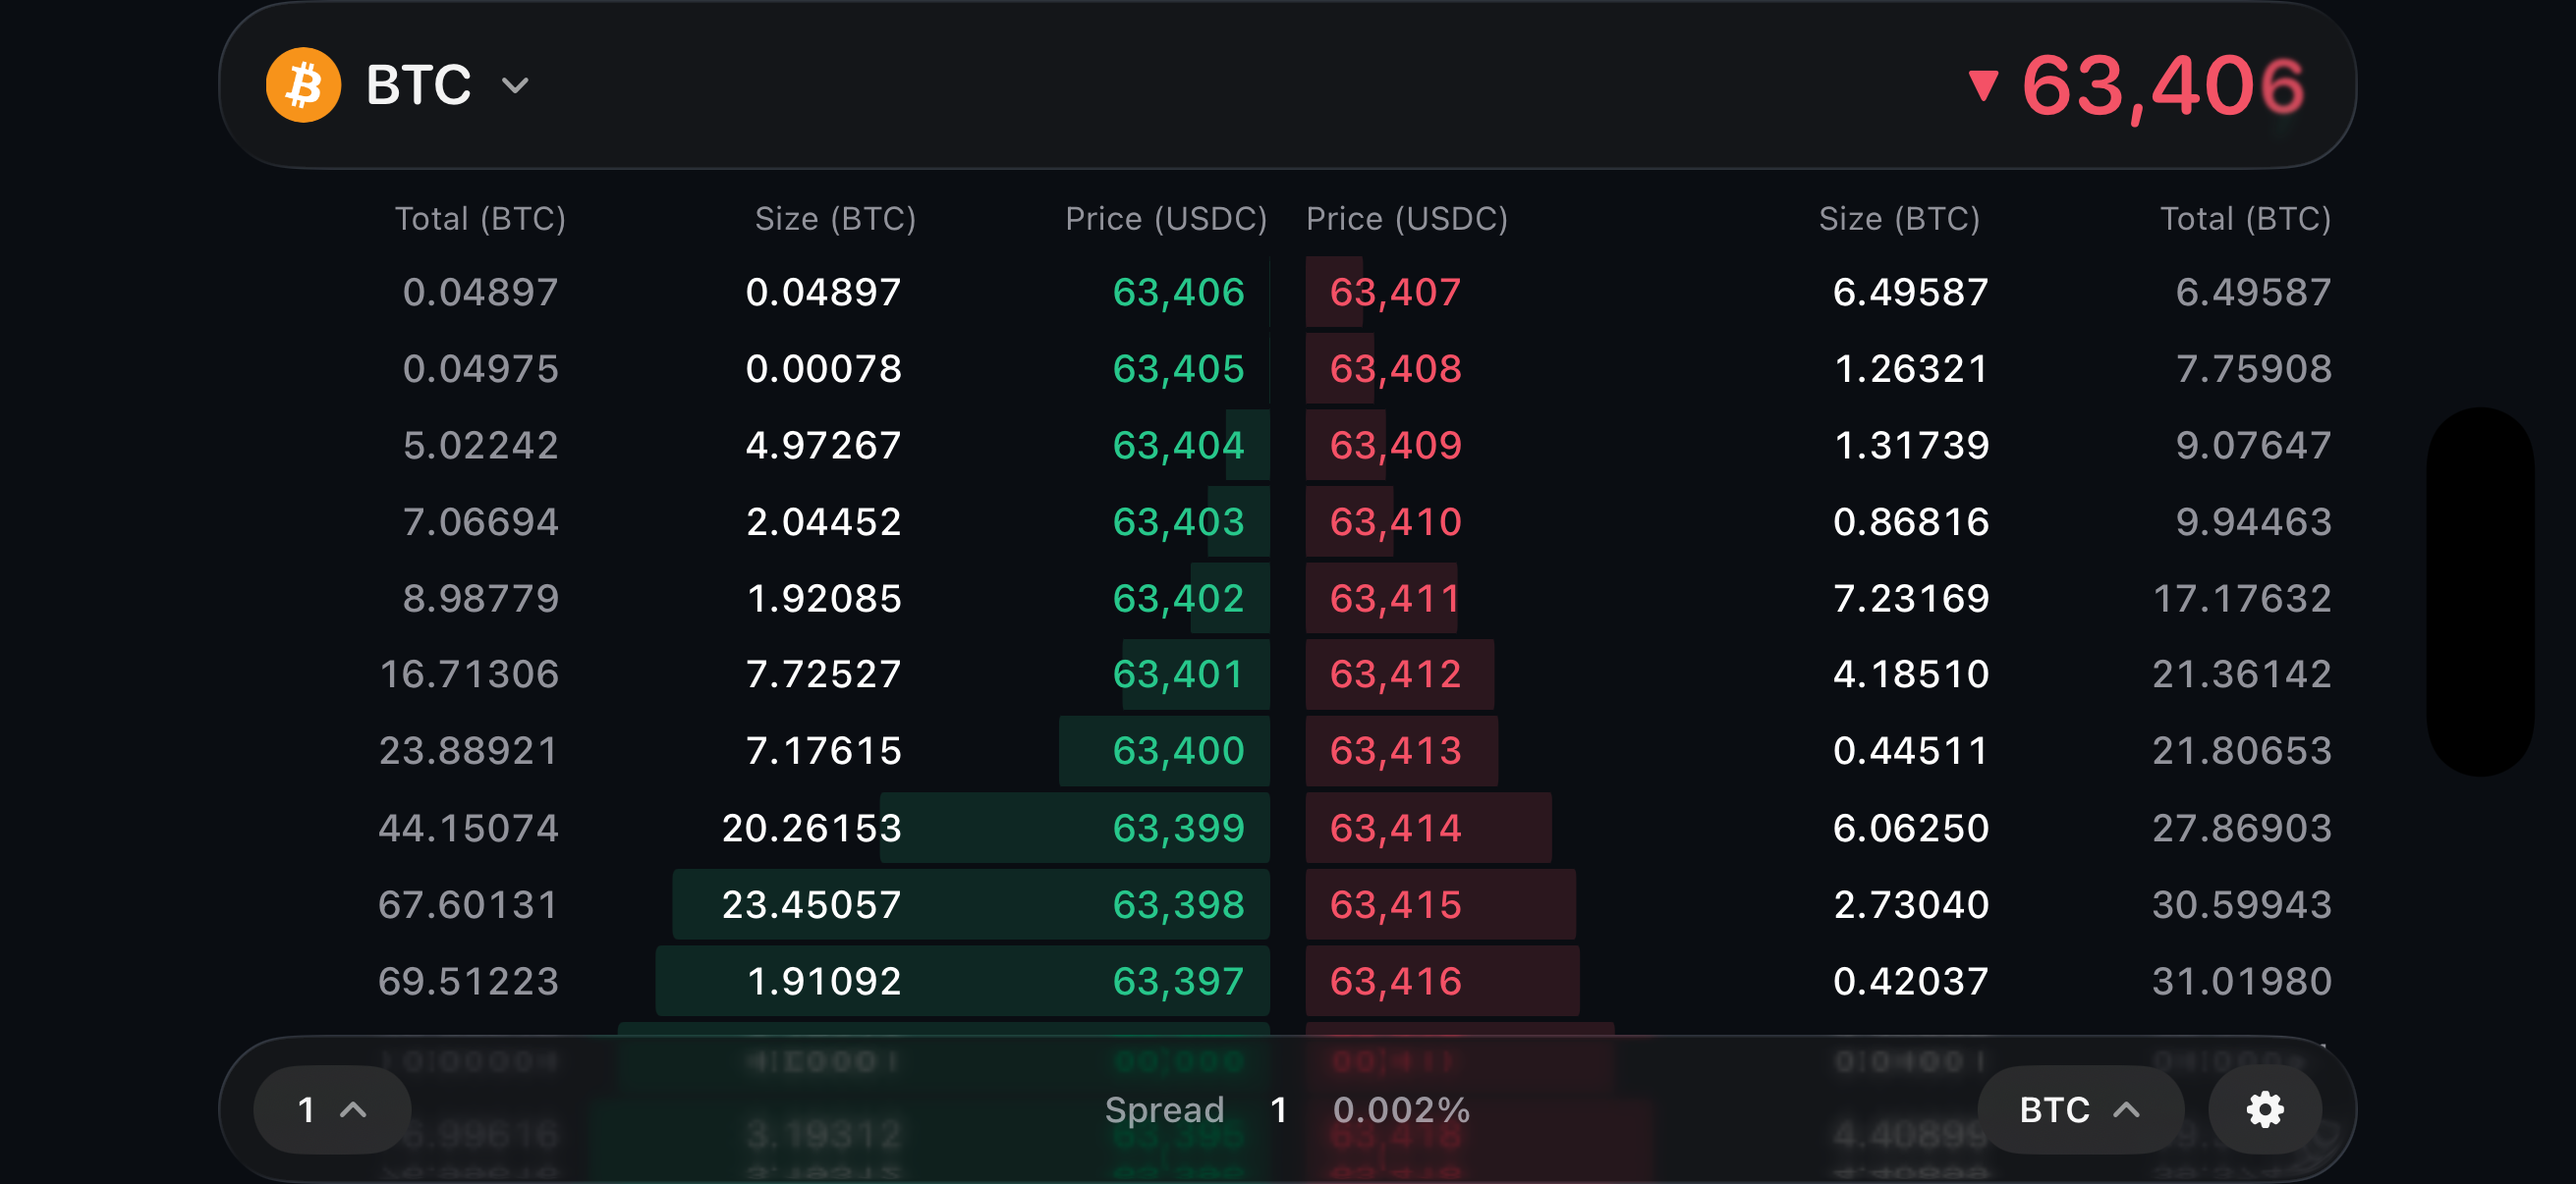
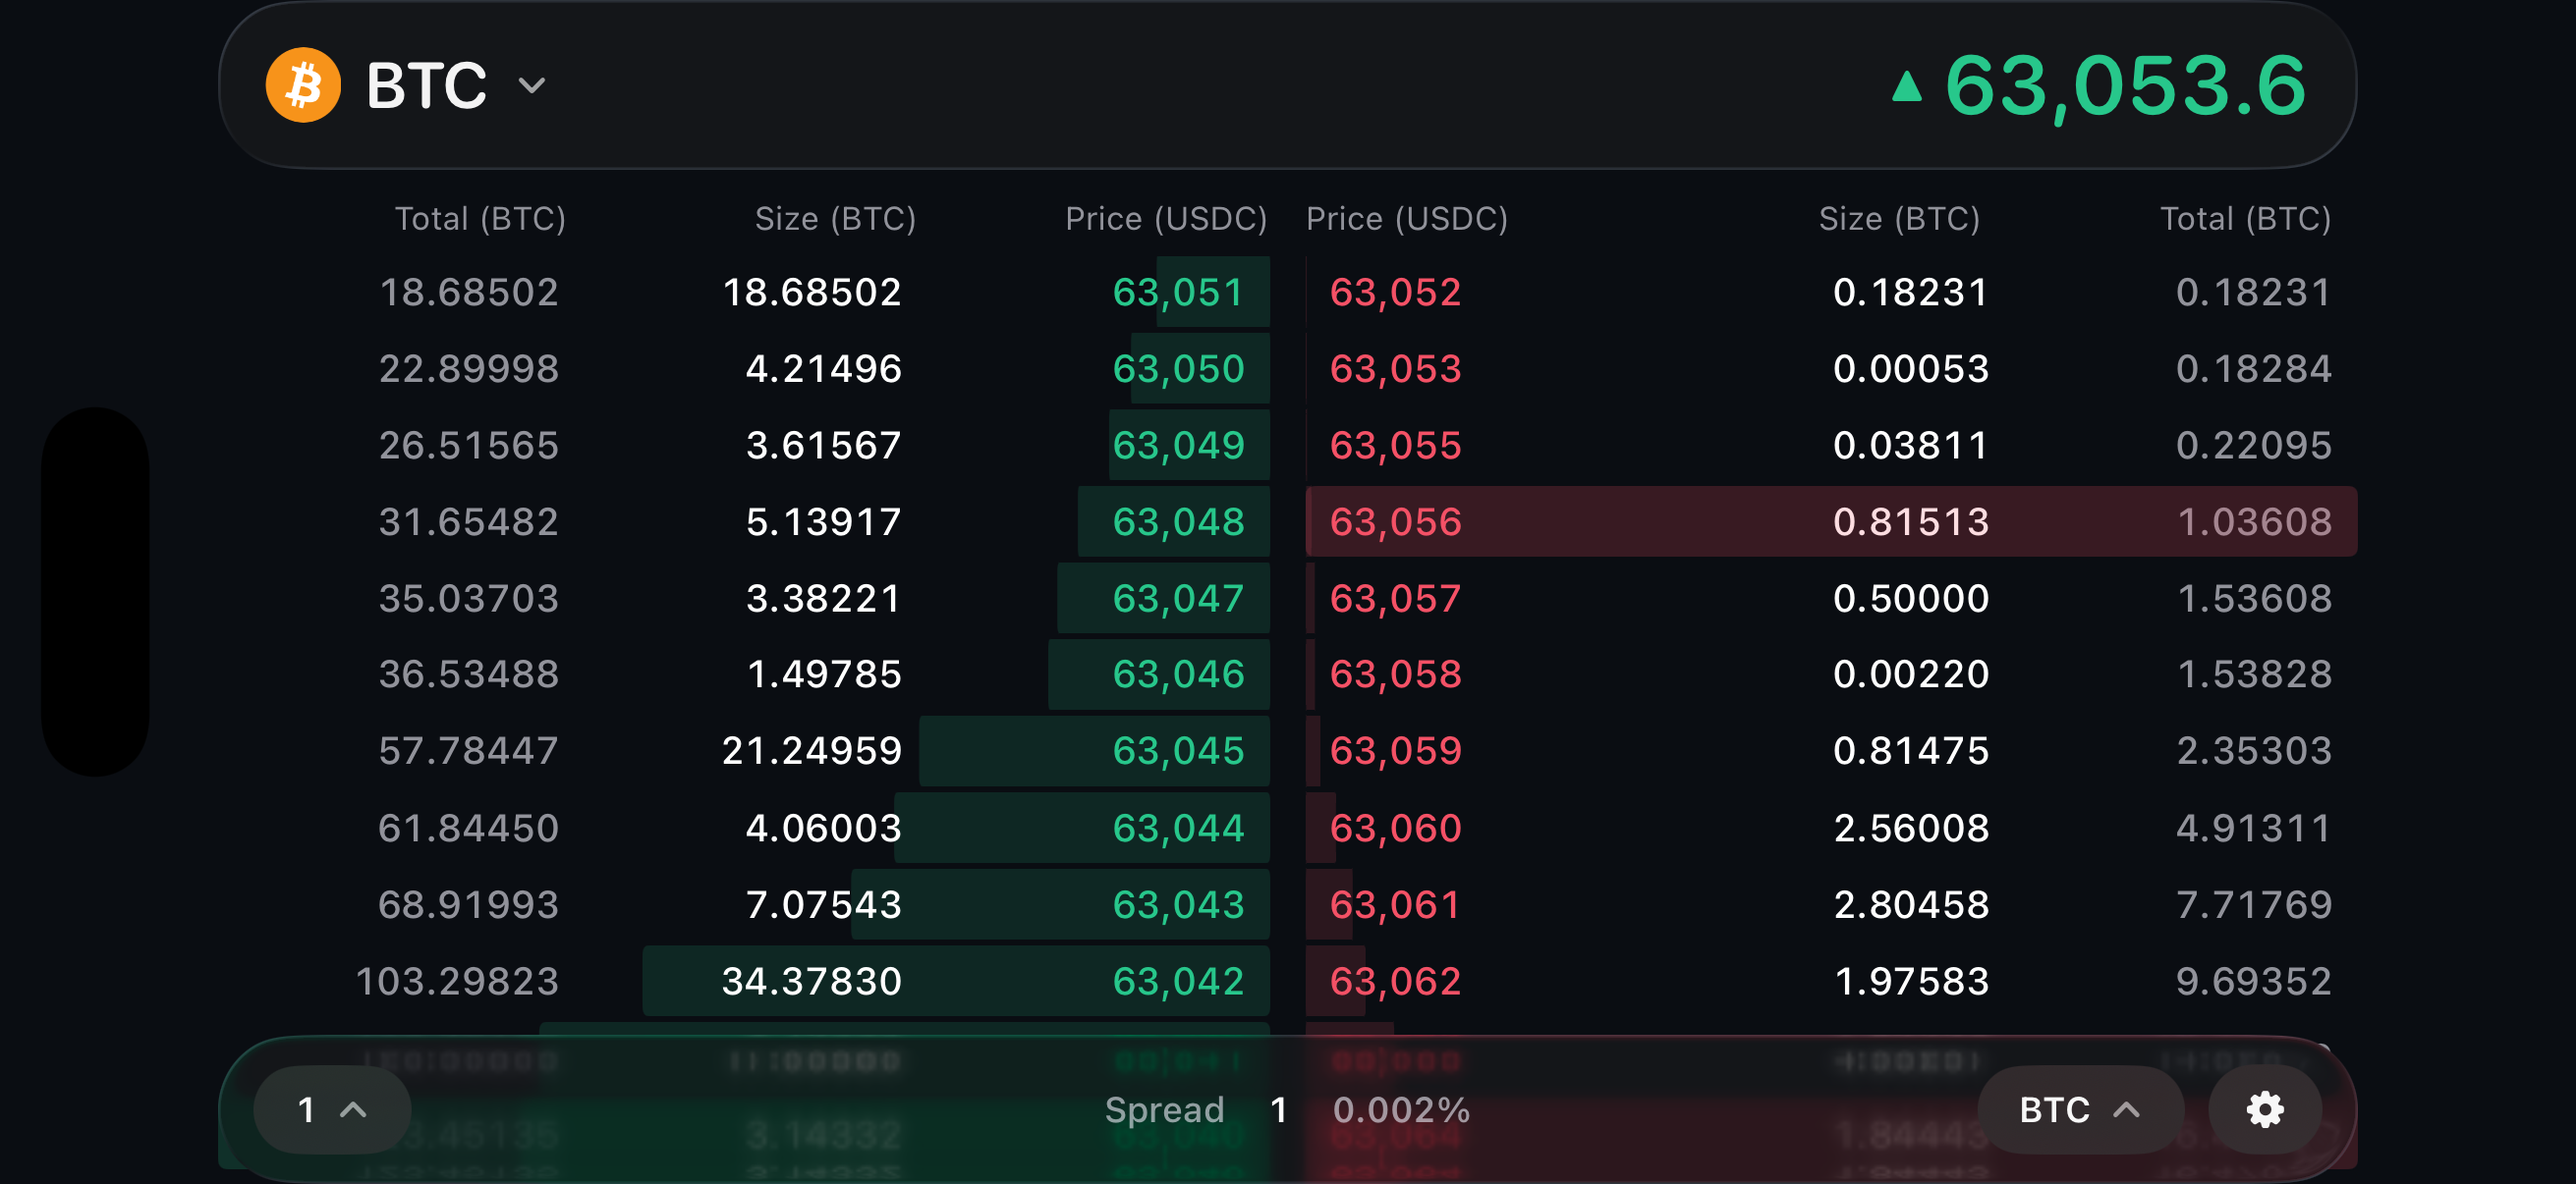
Restructure the README and refresh the screenshots

diff --git a/README.md b/README.md
@@ -1,7 +1,7 @@
 # HLOrderbook
 
-A native iOS orderbook widget streaming the live L2 book from Hyperliquid's
-websocket feed, built with Swift/SwiftUI only — no third-party dependencies.
+A native iOS order book that streams live data from Hyperliquid's websocket.
+Written in Swift and SwiftUI only, with no third-party libraries.
 
 <p>
   <img src="docs/screenshot.png" width="300" alt="HLOrderbook — live BTC book" />
@@ -15,134 +15,135 @@ websocket feed, built with Swift/SwiftUI only — no third-party dependencies.
   Type</em>
 </p>
 
-## Run
-
-Open `HLOrderbook.xcodeproj` in Xcode 16+ and run the `HLOrderbook` scheme on
-any iOS 17+ simulator or device. There is nothing to configure — the app
-connects straight to `wss://api.hyperliquid.xyz/ws`. The glass chrome uses
-iOS 26's Liquid Glass where available and falls back to a blurred material on
-older systems.
-
 ## Features
 
-- **Live L2 book** — subscribes to the `l2Book` channel; asks above, bids
-  below, with the spread pinned between them. The list scrolls natively
-  beneath the floating glass header and toolbar, anchored on the spread so
-  deeper levels are a swipe away. Nothing renders until the first snapshot
-  lands — just a spinner standing in for the price it's waiting on.
-- **Unfolding** — when a book arrives the rows fan out from the spread,
-  nearest first, fading in as they travel; switching market folds the old
-  book back the other way, the outermost rows leaving first, so it gathers
-  into the spread instead of stalling at its edges. Pure `offset` and
-  `opacity` — no layout pass, and the row identities never change.
-- **Two-column landscape** — past 600 pt of width the book reflows into bids
-  and asks side by side, prices meeting in the middle and depth bars growing
-  outward: twice the visible levels where the screen allows it. The trigger
-  is width, not orientation, so iPads get it in both orientations. The spread
-  moves to the centre of the toolbar, since the side-by-side book has no
-  spread row.
-- **Symbol selection** — BTC / ETH via a searchable market-picker sheet; the
-  pattern scales past two assets (another market is one enum case away).
-  Switching re-subscribes on the live socket (no reconnect) and re-centers
-  the book; the choice is remembered, so the app reopens on the market last
-  looked at. Coin logos are bundled from the CC0
-  [cryptocurrency-icons](https://github.com/spothq/cryptocurrency-icons) set.
-- **Price grouping (`nSigFigs` / `mantissa`)** — a native menu that offers
-  real tick sizes (1 / 2 / 5 / 10 / 100 / 1,000 for BTC) rather than raw
-  significant figures, and shows the current one unlabelled, as trading UIs
-  do. Steps are derived from the current price magnitude and mapped back to
-  the `nSigFigs` (and `mantissa`, for the 2× and 5× steps) the feed expects,
-  applied by re-subscribing.
-- **True spread** — the spread readout always shows the real market spread
-  from the full-precision `bbo` stream, matching Hyperliquid: grouping is a
-  display convenience and shouldn't inflate the apparent cost of crossing
-  the book. Updates are sampled at most every 500 ms so the number doesn't
-  strobe through re-quoting transients during fast markets.
-- **Size units** — a toolbar menu shows sizes and totals either in the coin
-  (BTC/ETH) or in USDC notional; switching re-renders the stored snapshot
-  without touching the subscription.
-- **Header price** — the mark price comes from the `activeAssetCtx` channel,
-  so it stays exact regardless of how coarsely the book is grouped (a mid
-  derived from $1,000 buckets would be off by hundreds). It ticks with a
-  numeric text transition and colors by direction.
-- **Level inspector** — press and hold a row to open a native popover with
-  what it would take to sweep the book down to that depth: distance from mid,
-  average fill price, and cumulative size in coin and USDC. Keep dragging and
-  the inspector follows the finger from level to level, with a selection
-  haptic at each one. The inspector pins the depth — "the Nth level out from
-  the spread" — so as the market moves the highlight stays on the same rung
-  of the ladder and every figure updates live.
-- **Change feedback** — cumulative depth bars animate as liquidity moves, and
-  a row flashes in its side's color when something notable happens at that
-  price: a genuinely new level, or its resting size at least doubling.
-  Levels that merely scroll in past the far edge of the window don't flash, so
-  the effect stays rare enough to mean something.
-- **Light and dark appearance** — switchable from Settings and persisted; all
-  colors live in the asset catalog with per-appearance variants, so both
-  themes come from one palette.
-- **Settings** — a sheet off the toolbar's gear: appearance, haptics on/off,
-  and what the app is subscribed to.
-- **Haptics** — selection feedback when changing symbol, grouping, or units,
-  and as the level inspector moves from row to row; muted from Settings.
-- **Dynamic Type** — text scales with the user's setting via `@ScaledMetric`
-  (row heights included), capped below the accessibility sizes where the
-  book's three columns stop fitting side by side.
-- **Resilience** — keep-alive pings every 45 s, automatic reconnection with
-  exponential backoff, and the socket is torn down/restored as the app
-  backgrounds/foregrounds.
+- **Live L2 book** — Asks on top, bids below, spread in the middle. The list
+  scrolls under the floating glass header and toolbar. Nothing is drawn until
+  the first snapshot arrives. Until then a spinner sits where the price goes.
+- **Unfolding** — When a book arrives, the rows open outward from the spread.
+  The closest row moves first, and each row fades in as it moves. Switching
+  market folds the old book back the same way. This only changes `offset` and
+  `opacity`, so SwiftUI does not run a layout pass and the rows keep their
+  identities.
+- **Two-column landscape** — When the screen is wider than 600 pt, bids and
+  asks are shown side by side. Prices meet in the middle and the depth bars
+  grow outward, so twice as many levels fit. The app checks width, not
+  orientation, so iPads use this layout in both orientations.
+- **Symbol selection** — Choose BTC or ETH from a searchable sheet. Adding
+  more markets takes one more enum case. Switching sends a new subscription on
+  the same socket, and the app remembers your choice for the next launch.
+- **Price grouping (`nSigFigs` / `mantissa`)** — The menu shows real tick
+  sizes (1, 2, 5, 10, 100, 1000 for BTC) instead of raw significant figures.
+  The app works out these steps from the current price, then converts them
+  back to the values the feed expects.
+- **Size units** — Show size and total in the coin or in USDC. Switching
+  re-formats the snapshot the app already has and does not change the
+  subscription.
+- **Level inspector** — Press and hold a row to see what it would cost to buy
+  or sell up to that level: distance from the mid price, average fill price,
+  and total size. Drag your finger and the popover follows, with a haptic at
+  each level. It tracks the level's depth, such as "the 5th row from the
+  spread", not its price. So it stays on the same row as the market moves.
+- **Change feedback** — Depth bars animate when sizes change. A row flashes
+  when the level is new, or when its size at least doubles. Rows that only
+  scroll into view do not flash, so a flash always means something changed.
+- **Light and dark** — Choose in Settings. The choice is saved. Every color
+  is in the asset catalog with a light and a dark value.
+- **Haptics and Dynamic Type** — Every control gives haptic feedback, and so
+  does the inspector as it moves between rows. You can turn this off in
+  Settings. Text and row heights follow the user's text size through
+  `@ScaledMetric`, up to a limit where the three columns stop fitting.
+- **Resilience** — The app pings every 45 seconds and reconnects with
+  exponential backoff. It closes the socket when the app goes to the
+  background and opens it again when the app returns.
+
+## The feed
+
+The app subscribes to three channels on one socket to
+`wss://api.hyperliquid.xyz/ws`. It needs all three because of grouping. Once
+the exchange groups the book into buckets, the book can no longer show you the
+exact prices around it.
+
+| Channel | Carries | Drives |
+| --- | --- | --- |
+| `l2Book` | depth snapshots at the requested bucket size | the twenty levels on each side |
+| `activeAssetCtx` | the asset's mark price | the header price |
+| `bbo` | best bid and ask at full precision | the spread readout |
+
+**`l2Book`** is the only channel that takes `nSigFigs` and `mantissa`. The
+exchange does the grouping, so changing the tick size means sending a new
+subscription instead of adding up levels in the app. Every message is a full
+snapshot, so there is no local book that can fall out of sync.
+
+**`activeAssetCtx`** gives the exchange's own mark price. If the app worked
+out a mid price from the book instead, that price would only be as exact as
+the buckets. With $1,000 buckets it could be off by hundreds, and it would
+change every time you changed the grouping.
+
+**`bbo`** solves the same problem for the spread. With $1,000 grouping, the
+closest bid and ask are $1,000 apart, so the spread would look about 100 times
+larger than it really is. This channel reports the real best bid and ask. It
+updates more often than the other two, so the app reads it at most every
+500 ms. Any faster and the number changes too quickly to read.
+
+Switching market resubscribes to all three channels. Changing grouping
+resubscribes to `l2Book` only.
 
 ## Architecture
 
 ```
-RootView              composition root: owns the model and the feed's
-                      lifecycle, then hands off to the screen.
-Preferences           appearance and haptics, persisted across launches;
-                      owned by the app, read through the environment.
+RootView              owns the view model and the feed's lifecycle, then
+                      hands off to the screen.
+Preferences           appearance and haptics, saved across launches. The app
+                      owns it and passes it down the environment.
 Feed/
-  Models              wire types for the frames we decode.
-  HyperliquidSocket   websocket lifecycle: subscribe/unsubscribe (l2Book,
-                      activeAssetCtx, and bbo per coin), pings, reconnection
-                      with backoff. Emits decoded frames.
+  Models              the types we decode the frames into.
+  HyperliquidSocket   the websocket: subscribe and unsubscribe (l2Book,
+                      activeAssetCtx, and bbo per coin), pings, and
+                      reconnection with backoff. Sends out decoded frames.
 ViewModels/
-  OrderbookViewModel  turns snapshots into fixed-identity row slots, coalesces
-                      bursts to ≤10 UI applies/sec, pre-formats all strings,
-                      and remembers the selected market.
+  OrderbookViewModel  turns snapshots into fixed row slots, groups bursts into
+                      at most 10 UI updates per second, formats every string
+                      once, and remembers the selected market.
 Screens/
-  OrderbookScreen     lays the header, book, and toolbar into the screen and
-                      picks the ladder or two-column layout by width.
-  SettingsScreen      appearance, haptics, feed info — presented as a sheet.
-  MarketPickerScreen  searchable market list — presented as a sheet.
+  OrderbookScreen     places the header, book, and toolbar, and picks the
+                      ladder or the two-column layout by width.
+  SettingsScreen      appearance, haptics, and feed info. Shown as a sheet.
+  MarketPickerScreen  searchable market list. Shown as a sheet.
 Components/
   MarketHeaderBar     market button and live mark price, on glass.
-  OrderbookView       the book: ladder or columns, plus the press-and-scrub
-                      inspector.
-  LevelRowView        one price level; its column order and bar direction
-                      adapt to ladder / left / right layouts.
-  BookColumnHeader    column titles, mirrorable for the right-hand column.
-  SpreadRowView       the ladder's divider showing the true spread.
-  LevelStatsView      the inspector's popover contents.
-  BookToolbar         grouping menu, unit menu, settings — and the spread,
-                      centred, in the wide layout.
-  PressAndScrub       UIKit long-press bridge that coexists with scrolling.
+  OrderbookView       the book itself: ladder or columns, plus the
+                      press-and-drag inspector.
+  LevelRowView        one price level. Its column order and bar direction
+                      change with the layout.
+  BookColumnHeader    column titles, mirrored for the right-hand column.
+  SpreadRowView       the divider in the middle showing the true spread.
+  LevelStatsView      what the inspector's popover shows.
+  BookToolbar         grouping menu, unit menu, settings, and the spread in
+                      the middle when the layout is wide.
+  PressAndScrub       a UIKit long press that works alongside scrolling.
 Design/
-  Theme               palette, from the asset catalog (light + dark).
-  Haptics             pre-warmed feedback with a global mute.
-  GlassBackground     Liquid Glass on iOS 26, material fallback below.
+  Theme               colors, from the asset catalog (light and dark).
+  Haptics             prepared feedback with a global mute.
+  GlassBackground     Liquid Glass on iOS 26, a material fallback below that.
 ```
 
-Performance notes:
+## Performance
 
-- Row slots have **fixed identities** (`ask-0` … `bid-19`), so SwiftUI updates
-  text in place instead of diffing inserted/removed rows — the book stays
-  visually stable while prices move.
-- Frames are **coalesced**: only the latest snapshot is applied, at most every
-  100 ms, so bursts never queue up stale renders; spread updates from the
-  chattier `bbo` stream are sampled at 500 ms.
-- Rows whose content didn't change in a snapshot **skip re-rendering**
-  entirely (`Equatable` views), and the depth bar is an anchored scale
-  transform — no per-row `GeometryReader`, no layout pass on change.
-- All number formatting happens once per snapshot in the view model, not in
-  view bodies; digits are monospaced to avoid layout jitter.
-- The level inspector is **one shared popover** anchored to the selected row,
-  not forty per-row presentation modifiers, and its long-press recognizer is
-  a single UIKit gesture that arbitrates cleanly with the scroll view's pan.
+- **Fixed row slots.** Each row keeps the same identity for its whole life
+  (`ask-0` … `bid-19`). SwiftUI updates the text inside a row instead of
+  inserting and removing rows, so the book does not jump while prices move.
+- **Rows that did not change do not redraw.** `LevelRowView` is `Equatable`,
+  so SwiftUI skips its body when the data is the same. The depth bar is a
+  scale transform anchored to one edge, so changing it does not run a layout
+  pass and each row does not need its own `GeometryReader`.
+- **Numbers are formatted once.** The view model formats every string when a
+  snapshot arrives, not inside view bodies. Digits are monospaced so the
+  columns do not shift as values change.
+- **One popover, one gesture.** The level inspector is a single popover
+  anchored to the selected row, not forty presentation modifiers. Its long
+  press is one UIKit gesture recognizer, which lets the scroll view keep its
+  own pan.
+
+Coin logos come from the CC0
+[cryptocurrency-icons](https://github.com/spothq/cryptocurrency-icons) set.
